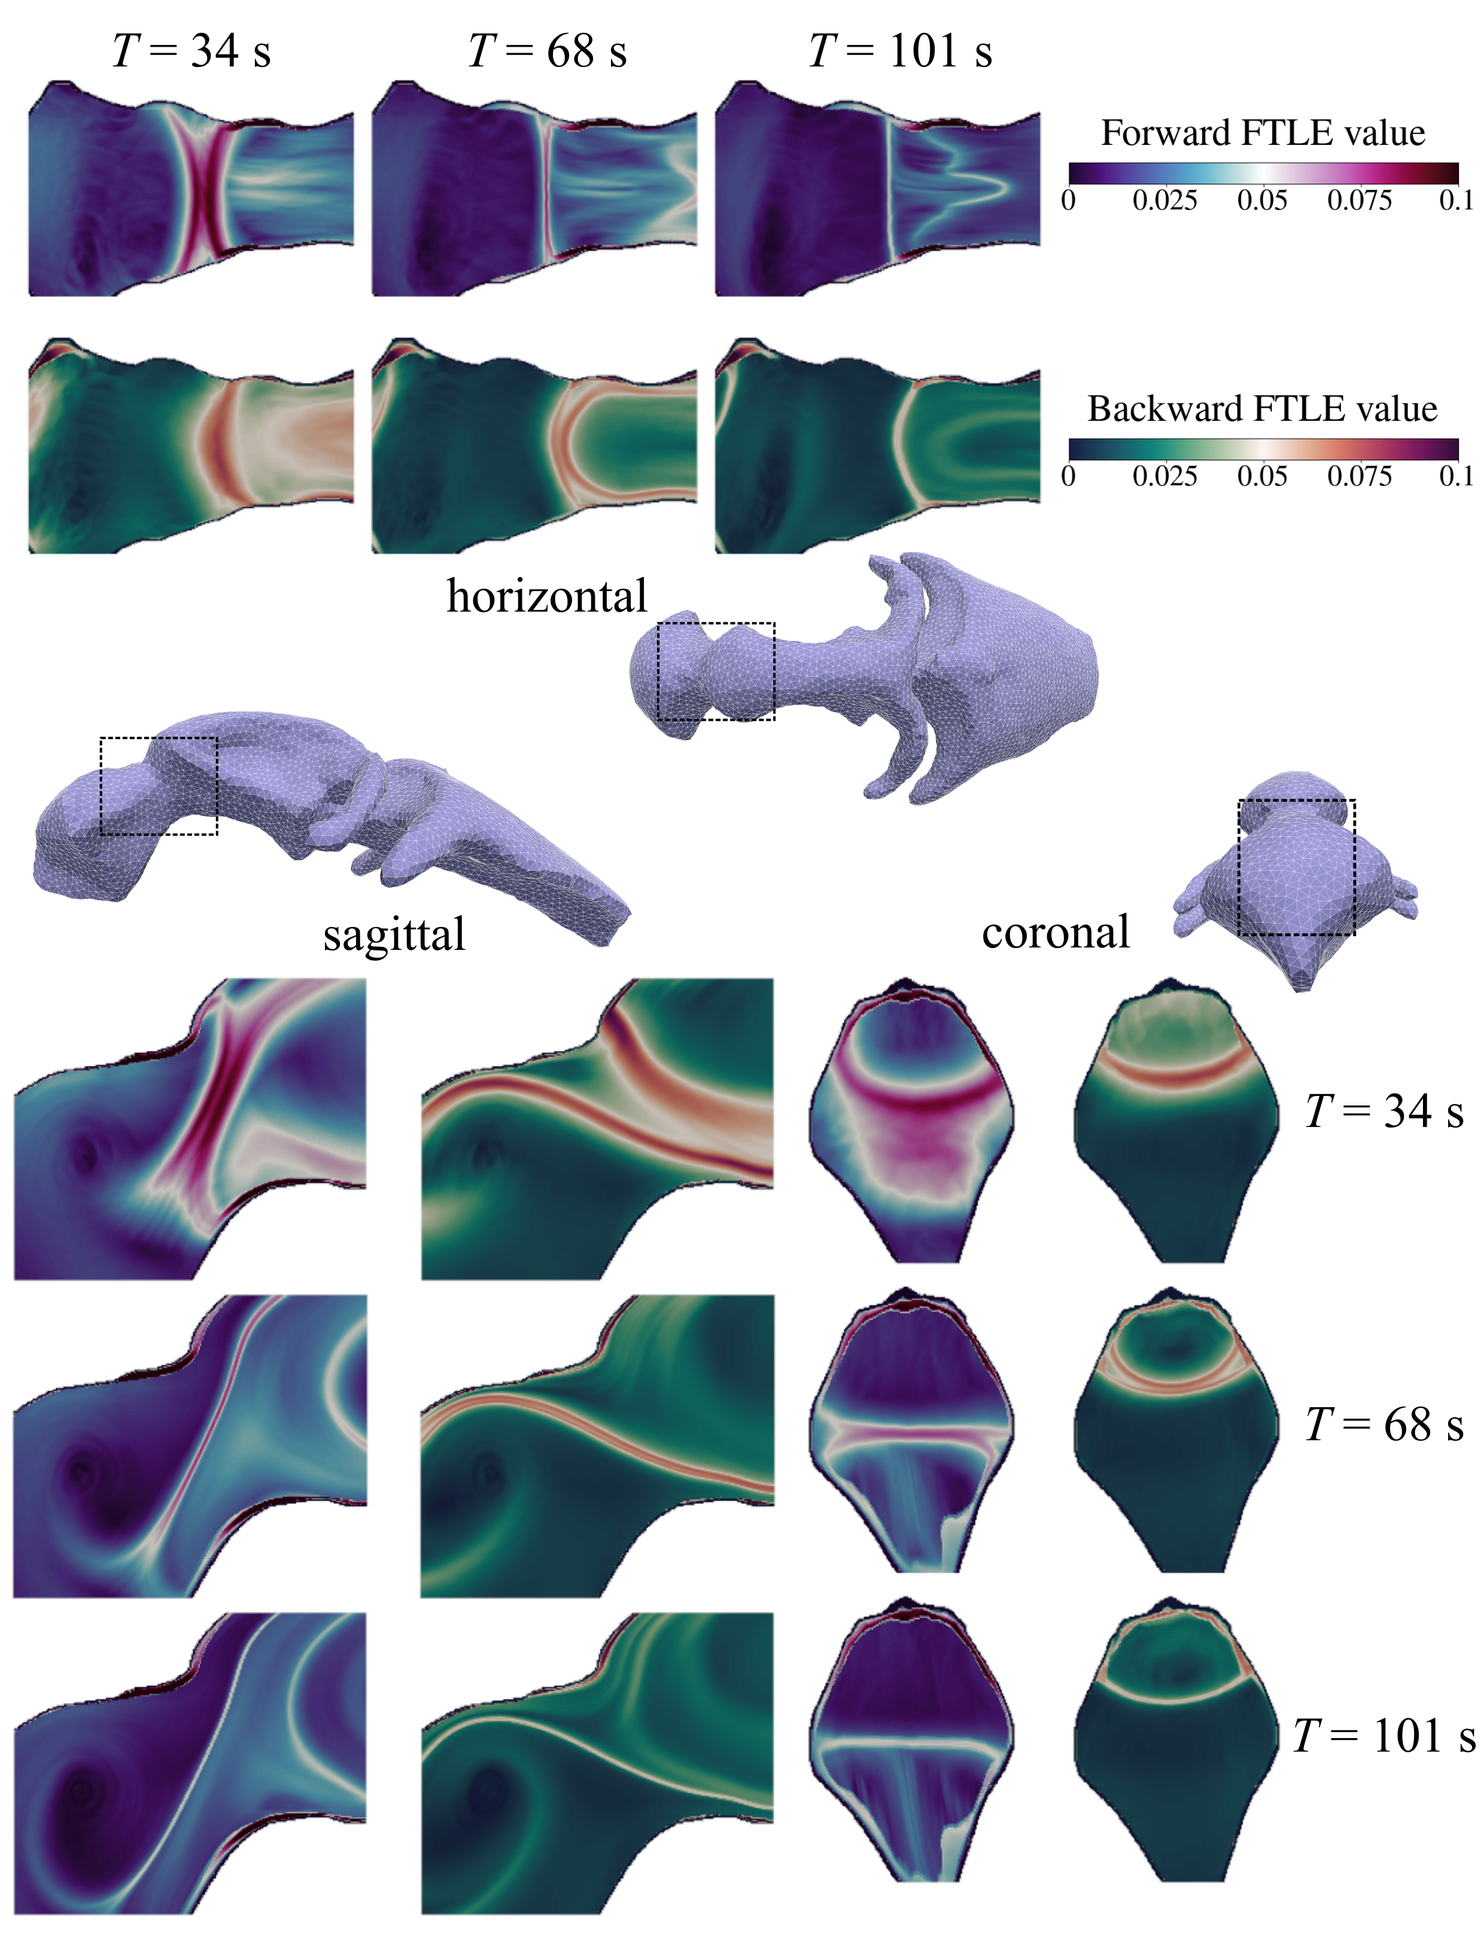
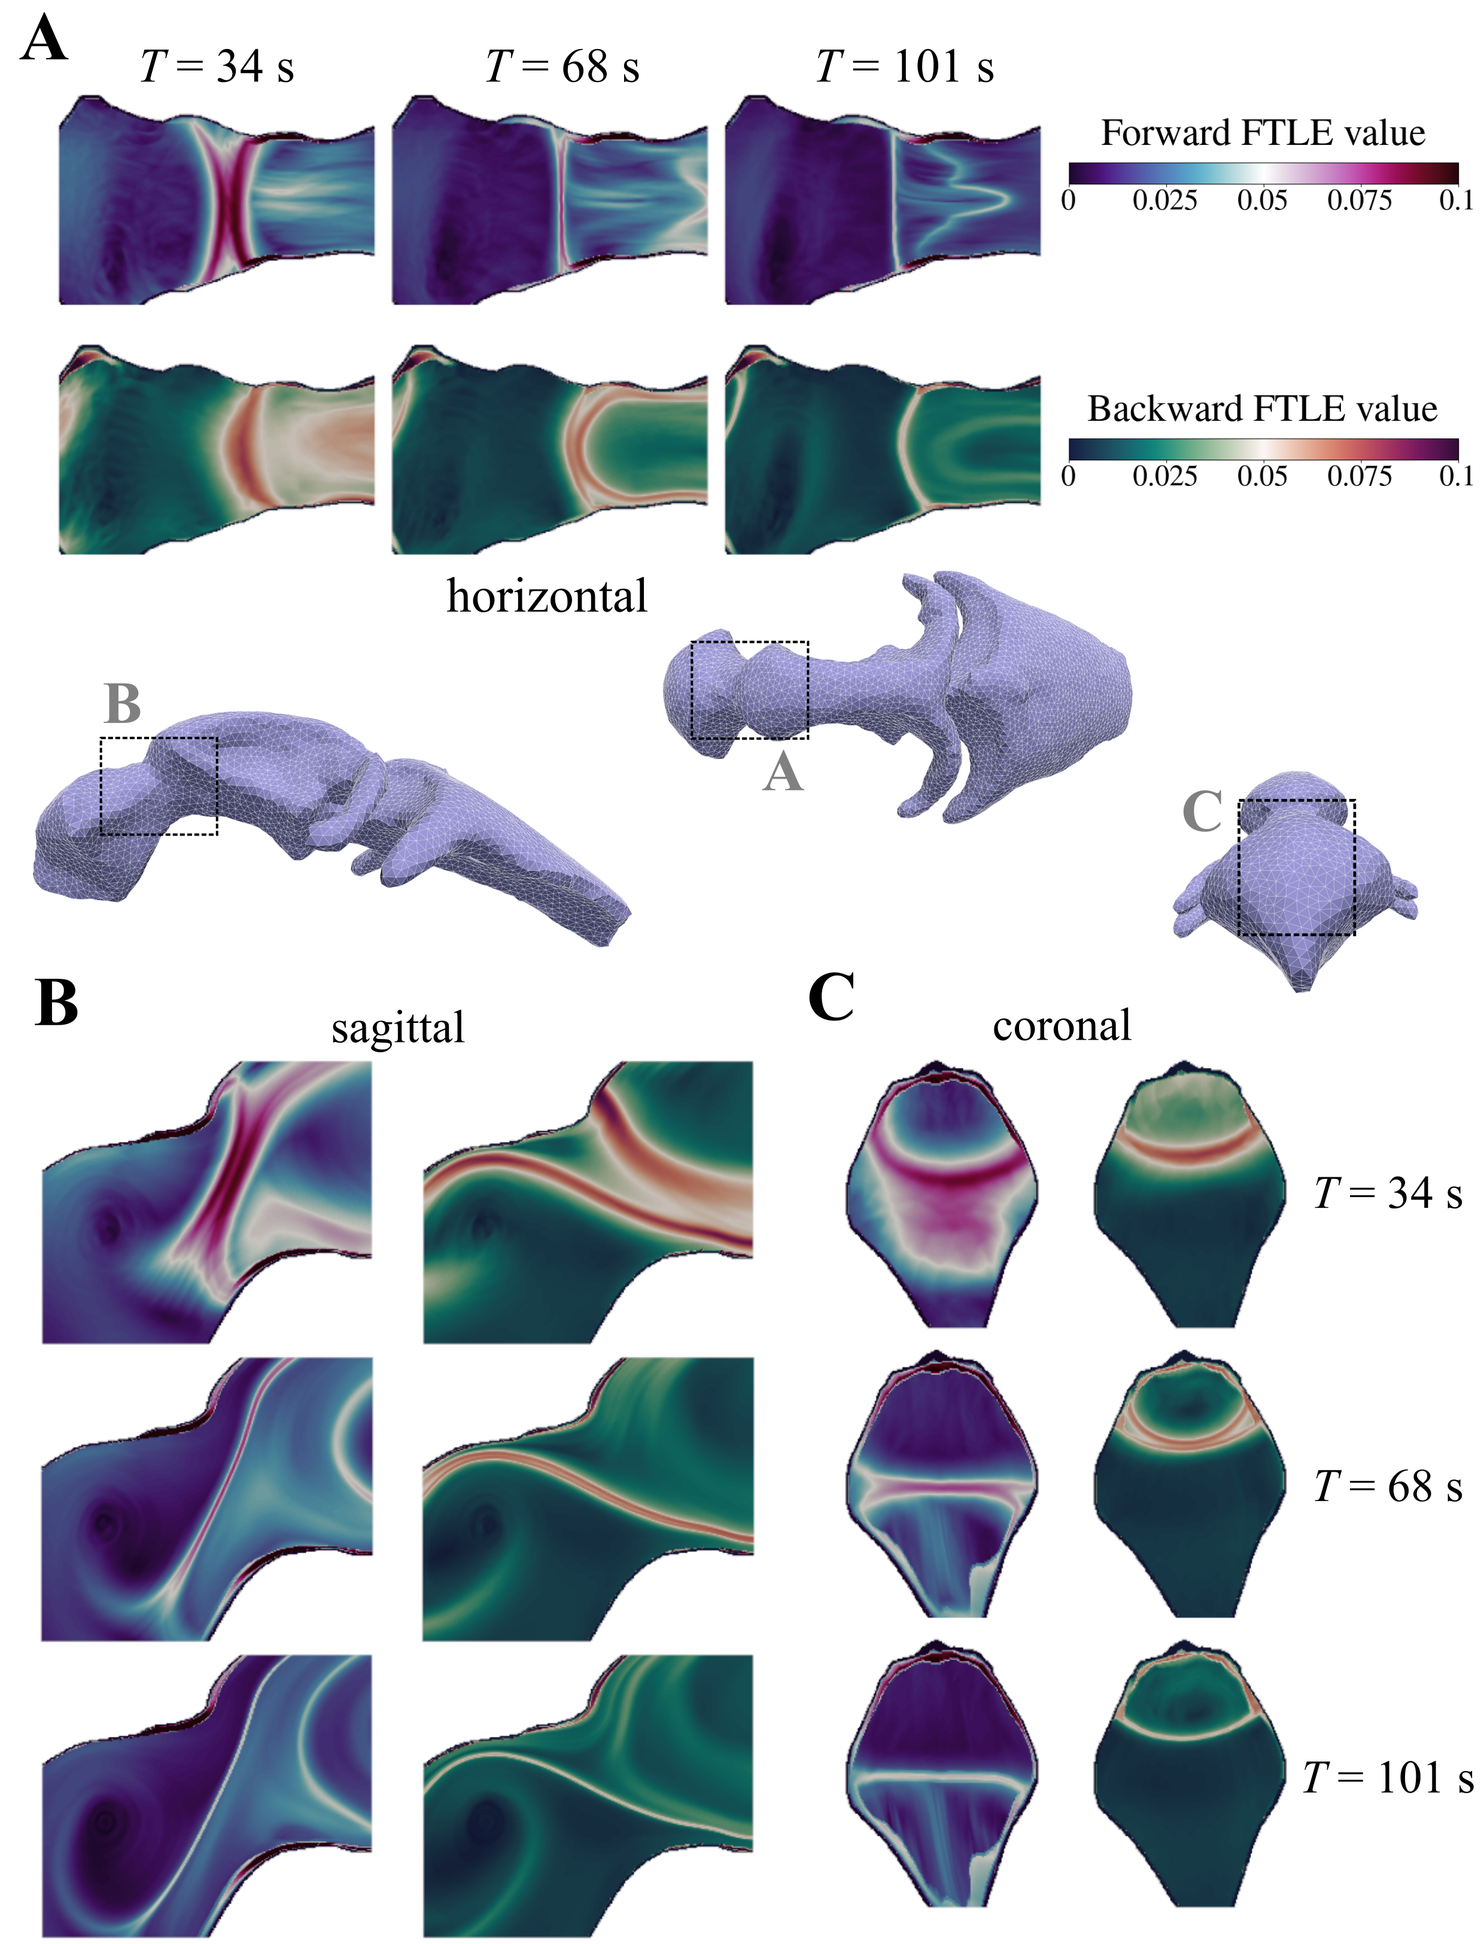
update FTLE figures

diff --git a/paper/main.tex b/paper/main.tex
@@ -473,7 +473,7 @@ First, to avoid rigid body motions when solving~\Cref{eq:strong_linear_elasticit
 Second, because these boundaries are
 considered open boundaries in the fluid model, the displacement velocity
 $\dot{\ww}$ on this boundary must be zero to avoid conflicting boundary conditions
-between the solid and the fluid model.
+between the tissue and the fluid models.
 Finally, the boundary $\Bcal_3$ is traction-free in all directions. These
 parts are the remaining parts of the geometry not mentioned, and certain small
 regions delineating different displacement BC regions, to avoid stress concentrations.
@@ -582,7 +582,7 @@ since they also modeled CSF flow in human brain ventricles,
 despite this value of $\tau$ being based on rodent brain data.
 
 \subsubsection{Summary of the boundary conditions
-for the fluid equations in human brain ventricles}
+for the governing CSF flow equations in human brain ventricles}
 \label{sec:boundary_conditions_human}
 
 For the human CSF flow model, the boundary is partitioned into
@@ -944,17 +944,17 @@ ventricles are evenly distributed between the two foramina (\Cref{fig:flow_resul
     \centering
     \includegraphics[width=\textwidth]{graphics/flow_results.png}
     \caption{\fixme{Reorder panels, cf. text.}
-    \textbf{a.} Volume dynamics of the ventricular system, third ventricle (3V)
+    \textbf{A.} Volume dynamics of the ventricular system, third ventricle (3V)
     and lateral ventricles (LV) over one cardiac cycle.
-    \textbf{b.} Applied displacement boundary conditions over four cardiac cycles.
+    \textbf{B.} Applied displacement boundary conditions over four cardiac cycles.
     The boundary condition magnitudes
     are ramped up over two cardiac cycles with a cosine window applied to the first
     cycle. The last cardiac cycle is where displacements are output to file for
     subsequent use as boundary conditions in the fluid equations.
-    \textbf{c--f.} Quantities of interest computed over one cardiac cycle:
-    Flowrate and pressure gradient in the cerebral aqueduct (\textbf{c}), as
-    well as cumulative flow volumes (\textbf{d}), mean pressures (\textbf{e}) and
-    flowrates (\textbf{f}) in different parts of the ventricular system.}
+    \textbf{C--F.} Quantities of interest computed over one cardiac cycle:
+    Flowrate and pressure gradient in the cerebral aqueduct (\textbf{C}), as
+    well as cumulative flow volumes (\textbf{D}), mean pressures (\textbf{E}) and
+    flowrates (\textbf{F}) in different parts of the ventricular system.}
     \label{fig:flow_results}
 \end{figure}
 
@@ -977,13 +977,13 @@ by the Navier-Stokes equations.
 \begin{figure}
     \centering
     \includegraphics[width=\textwidth]{graphics/3d_flow_results.png}
-    \caption{\textbf{a.} Forward-in-time integrated streamlines of particles seeded
+    \caption{\textbf{A.} Forward-in-time integrated streamlines of particles seeded
     in the interventricular foramina at times $t=0.25, 0.50, 0.75$ s, corresponding
     to systole, mid-cardiac cycle, and diastole, for the Navier-Stokes velocity
     approximation. Note the distinct colorbar limit in each plot. 
-    \textbf{b.} Navier-Stokes velocity vectors at times $t=0.25, 0.50, 0.75$ s in
+    \textbf{B.} Navier-Stokes velocity vectors at times $t=0.25, 0.50, 0.75$ s in
     the human brain ventricles with zoomed-in view of  (bottom row).
-    \textbf{c.} Zoomed-in view (of the boxed region shown in panel \textbf{b})
+    \textbf{C.} Zoomed-in view (of the boxed region shown in panel \textbf{B})
     of velocity vectors superior to the cerebral aqueduct entrance, both for
     the Navier-Stokes and the Stokes solution, with notable differences
     in flow features.
@@ -1008,16 +1008,16 @@ indicating a jet forming right above the entrance to
 the cerebral aqueduct (\Cref{fig:3d_flow_results}C).
 These vortical patterns are absent in the Stokes solution.
 
-\subsection{Comparing model versions}
+\subsection{Disregarding choroid plexus secretion or motile cilia lead to small changes in flow quantities}
 % Comparison of model versions
 When comparing results for the three flow model versions (DSC, DC, DS), most of the computed flow quantities are similar.
 The aqueductal and lateral aperture stroke volumes are the same when excluding cilia (DS) as for the full model (DSC).
 Removing secretion while keeping cilia (DC model), there is slightly less flow with a 4\% decrease in the aqueductal
 and lateral aperture stroke volumes when compared to DSC, with a similar decrease in the interventricular foramina stroke volumes.
-The median aperture stroke volume is less for both DS and DC compared to DSC, with an 11\% and 12\% decrease for DS and DC,
+The median aperture stroke volume is less for both DS and DC compared to DSC, with 11\% and 12\% decreases for DS and DC,
 respectively. The pressure gradient peak-to-nadir is unaltered for both DC and DS.
 The maximal and minimal velocity magnitudes and flowrates change
-less than 4\% and 3\%, respectively, between the three models.
+less than 4\% and 3\% for DC and DS, respectively.
 
 \subsection{Motile cilia generate rotational flow in embryonic zebrafish brain ventricles}
 % Summarize zebrafish velocity field characteristics
@@ -1077,14 +1077,15 @@ smeared out with diminishing FTLE values.
 \begin{figure}
     \centering
     \includegraphics[width=\textwidth]{graphics/FTLE_human1.png}
-    \caption{FTLE fields computed with initial release time
-    $t_0=0$ and integration times $T = 0.5, 1.0, 1.5, 2.0$ s
+    \caption{Slices of FTLE fields computed with initial release time
+    $t_0=0$ and integration times $T = \pm\{0.5, 1.0, 1.5, 2.0\}$ s
     in the human brain ventricles. The FTLE fields
-    were computed in two boxed sections: (i) the posterior end of the third
+    were computed in two box regions: (i) the posterior end of the third
     ventricle, including the superior most part of the aqueduct, and
     (ii) the anterior part of the lateral ventricles, including
-    the interventricular foramina. The FTLE fields are displayed
-    in sagittal and coronal slices. Within each slice-specific column,
+    the interventricular foramina. Coronal slices in the IVF (\textbf{A})
+    and the 3V (\textbf{B}) and sagittal slices in the 3V (\textbf{C})
+    of these FTLE fields are displayed. Within each slice-specific column,
     the left and right columns display forward- and backward-time FTLE
     fields, respectively.    
     The lower colorbar limit is zero in all slices,
@@ -1104,7 +1105,7 @@ and a new vortex clearly forms during the transition to the next cardiac cycle.
     \centering
     \includegraphics[width=\textwidth]{graphics/FTLE_human2.png}
     \caption{Sagittal slices of FTLE fields in the human brain ventricles 
-    computed with an integration time $T = 1.0$ s
+    computed with integration times $T = \pm 1.0$ s
     (one cardiac cycle). The FTLE fields are computed with varying
     initial release times $t_0$.
     The top two rows are slices taken in
@@ -1112,51 +1113,53 @@ and a new vortex clearly forms during the transition to the next cardiac cycle.
     forward- and backward-time FTLE fields, respectively.
     The bottom two rows are sagittal slices taken in the 3V (forward- and 
     backward-time FTLE displayed at the top and bottom).
-    See \Cref{fig:FTLE_human1} for the exact slice location.
-    The lower colorbar limit is zero in all slices, while the higher colorbar limit is
-    an FTLE value of 2.5 and 5.0 for the IVF and 3V slices, respectively.}
+    }
     \label{fig:FTLE_human2}
 \end{figure}
 
 \subsection{When neglecting fluid inertia, the model fails to resolve important Lagrangian structures}
 When computing FTLE fields with the unsteady Stokes equations (\Cref{eq:unsteady_stokes_eq}),
-the jet structure in the third ventricle differs greatly compared to the structre
-observed in the Navier-Stokes solution (\Cref{fig:FTLE_human3}, panels \textbf{a, b}).
-In the backward FTLE field, the lobes that form
+the jet structure in the third ventricle vanishes (\Cref{fig:FTLE_human3}A).
+This differs greatly from the structure
+observed in the Navier-Stokes solution (\Cref{fig:FTLE_human3}B).
+In the backward FTLE fields, the lobes that form
 and over time are elevated from the aqueduct entrance in the Navier-Stokes solution are not 
 present in the Stokes solution's FTLE fields. This indicates a stronger stirring effect
 in the Navier-Stokes solution. Similarly, the repelling structures are more
 extensive in the Navier-Stokes FTLE fields.
+\begin{figure}
+    \centering
+    \includegraphics[width=0.85\textwidth]{graphics/FTLE_human3.png}
+    \caption{Sagittal slices of FTLE fields computed in the human brain ventricles
+    using the unsteady Stokes equations (\textbf{A})
+    and the Navier-Stokes equations (\textbf{B})
+    with initial particle release time $t_0=0$ and integration times 
+    $T = \pm\{1.0, 2.0\}$ s. 
+    In both subpanels, forward-time FTLE are displayed in the left
+    column while backward-time FTLE are displayed in the right columnn.
+    }
+    \label{fig:FTLE_human3}
+\end{figure}
 
-\subsection{Brain tissue deformations are the main contributor to Lagrangian structures}
+\subsection{Brain tissue deformations are the main contributor to establishing Lagrangian structures}
 The FTLE fields computed in the third ventricle with the DC and DS models
 are generally comparable to the DSC results, with the formation of
-a vortex ring (\Cref{fig:FTLE_human3}, panels \textbf{b, c, d}).
+a vortex ring (\Cref{fig:FTLE_human4}).
 When excluding secretion (DC model), the leading edge of the vortex
 advances slightly faster. Meanwhile, excluding cilia (DS model)
 makes the forward-time FTLE field less attached to the ventricular
 walls close to the aqueductal entrance.
-
 \begin{figure}
     \centering
-    \includegraphics[width=0.85\textwidth]{graphics/FTLE_human3.png}
-    \caption{\textbf{a, b.} Comparison of FTLE fields computed in the human brain ventricles
-    using the Stokes (\textbf{a}) and Navier-Stokes (\textbf{b})
-    solutions with initial particle position
-    $\xx_0 = \xx(t_0)$ at $t_0=0$ and integration times 
-    $T = 1.0, 2.0$ s. 
-    \textbf{c, d.} Comparison of FTLE fields computed in the human brain ventricles
-    using the Navier-Stokes solution of the DC (excluded secretion, panel \textbf{c})
-    and DS (excluded cilia, panel \textbf{d}) models with $\xx_0 = \xx(t_0)$ at $t_0=0$
-    and integration times $T = 1.0, 2.0$ s.
-    In all subpanels, for each model-specific column,
-    forward-time FTLE are displayed on the left and backward-time FTLE on
-    the right. The FTLE fields were computed in a
-    boxed section in the posterior end of the third
-    ventricle, including the superior most part of the aqueduct
-    (see \Cref{fig:FTLE_human1} for the exact location). 
-    The FTLE fields are displayed in a sagittal slice. The lower colorbar limits
-    are zero, while the higher colorbar limits are  an FTLE value of 5.0.}
+    \includegraphics[width=0.85\textwidth]{graphics/FTLE_human4.png}
+    \caption{Sagittal slices of FTLE fields computed in the human brain ventricles
+    using the DC model (\textbf{A}, no secretion)
+    and DS model (\textbf{B}, no cilia)
+    with initial particle release time $t_0=0$ and integration times 
+    $T = \pm\{1.0, 2.0\}$ s. 
+    In both subpanels, forward-time FTLE are displayed in the left
+    column while backward-time FTLE are displayed in the right columnn.
+    }
     \label{fig:FTLE_human3}
 \end{figure}
 
@@ -1178,13 +1181,13 @@ a result of the lower velocities in the zebrafish brain ventricles.
 \begin{figure}
     \centering
     \includegraphics[width=\textwidth]{graphics/FTLE_zfish.png}
-    \caption{FTLE fields for integration times $T= 34, 68, 101$ s
-    in the zebrafish brain ventricles that
-    demonstrate compartmentalization of CSF flow. The FTLE fields
-    were computed in a boxed section of the interventricular duct
-    connecting the anterior and middle ventricles, and displayed
-    in horizontal, sagittal and coronal slices clipped at the 
-    center of the box. Common legends for all forward-in-time
+    \caption{FTLE fields for integration times $T = \pm\{34, 68, 101\}$ s
+    in embryonic zebrafish brain ventricles. The FTLE fields
+    were computed in a box section of the interventricular duct
+    connecting the anterior and middle ventricles.
+    Horizontal (\textbf{A}), sagittal (\textbf{B})
+    and coronal slices (\textbf{C}) in the center of the box
+    are displayed. Common legends for all forward-in-time
     and all backward-in-time fields.}
     \label{fig:FTLE_zfish}
 \end{figure}
@@ -1229,7 +1232,8 @@ compartmentalization in embryonic zebrafish
 brain ventricles~\cite{Olstad2019CiliaryDevelopment,
 Herlyng2025AdvectionDiffusion}.
 
-\subsection{The effects of fluid inertia on ventricular flow and transport}
+\subsection{Accounting for fluid inertia is important to resolve Lagrangian structures,
+but less important for macroscopic flow analysis}
 The results we present indicate that when simulating CSF flow
 in human ventricles at Reynolds numbers in the lower hundreds,
 accounting for intertial effects through
@@ -1259,13 +1263,14 @@ by a factor ten. Although inertial forces would still dominate viscous forces at
 these numbers, investigating the effects on the discrepancy in the advective transport
 between the Stokes and Navier-Stokes solutions would be interesting to address in future work.
 
-\subsection{The effects of motile cilia and CSF secretion}
+\subsection{Motile cilia and CSF secretion do not significantly
+affect Lagrangian structures in the brain ventricles}
 Disregarding motile cilia (DS model) did not alter the flow in the human brain ventricles significantly
 in terms of macroscopic flow quantities like stroke volume. 
 There were however minor differences in the FTLE field structures computed with the DS model compared
 to both DC and DSC, with the lobe structures near the aqueduct
 entrance more attached to the 3V wall when including cilia (DC/DSC),
-indicating that cilia alter the near-wall flow (\Cref{fig:FTLE_human3}, panels \textbf{b, c, d}).
+indicating that cilia alter the near-wall flow (\Cref{fig:FTLE_human4}).
 This finding compares well with the computational study
 by Siyahhan~\emph{et al.}~\cite{Siyahhan2014FlowVentricles},
 whose results showed only a minor effect of cilia on near-wall flow in the lateral
@@ -1290,7 +1295,7 @@ ventricular system. In terms of local flow features,
 these were largely unaffected when disregarding CSF secretion (DC model)
 compared to the DSC model. In the FTLE fields, we observe a small
 difference in the location of the leading edge of the vortex ring
-when disregarding secretion (\Cref{fig:FTLE_human3}, panels \textbf{b, c, d}).
+when disregarding secretion (\Cref{fig:FTLE_human4}).
 This may result from the secretion increasing the total CSF volume
 flowing through the system, leading to a faster development of the vortex ring.
 
@@ -1349,7 +1354,7 @@ influences the results, could be investigated in future work.
 
 This modeling work comprises several mechanisms, parameters and
 assumptions that are uncertain.
-For the solid equations, we used a damped linear elastic model
+For the tissue deformation equations, we used a damped linear elastic model
 where there is an inherent
 uncertainty in the material parameters
 of brain tissue~\cite{smillie2005hydroelastic}.
@@ -1421,7 +1426,10 @@ both $\tau$ and $\alpha$ may provide further insights on this.
 We have presented a computational framework for using finite-time Lyapunov exponent (FTLE)
 fields to characterize Lagrangian coherent structures in brain ventricles.
 The FTLE fields are computed from velocity fields predicted with finite element simulations
-of cerebrospinal fluid (CSF) flow. We demonstrated that accounting for fluid inertia
+of cerebrospinal fluid (CSF) flow. Of the three flow mechanisms we considered, cardiovascular pulsation-related
+deformations, choroid plexus secretion, and motile cilia, the deformations are the main contributor to
+establishing Lagrangian structures in the brain ventricles. Additionally,
+we demonstrated that accounting for fluid inertia
 in flow field predictions has little importance when computing integrated flow quantities,
 but fluid inertial effects are crucial for capturing Lagrangian coherent structures and thus crucial when
 modeling transport and mixing in the (human) brain ventricles. Through comparison with
@@ -1459,7 +1467,7 @@ Correctness of the zebrafish CSF flow model implementation
 was verified in previous work~\cite{Herlyng2025AdvectionDiffusion},
 thus we only present verification analysis of the human brain model here.
 Mesh and polynomial order refinement studies for the human
-model were performed both for the fluid and the solid equations.
+model were performed both for the fluid and the tissue deformation equations.
 
 \subsection{Finite element methods for the fluid equations}
 Correctness of the discretization schemes on the human brain ventricles geometry
